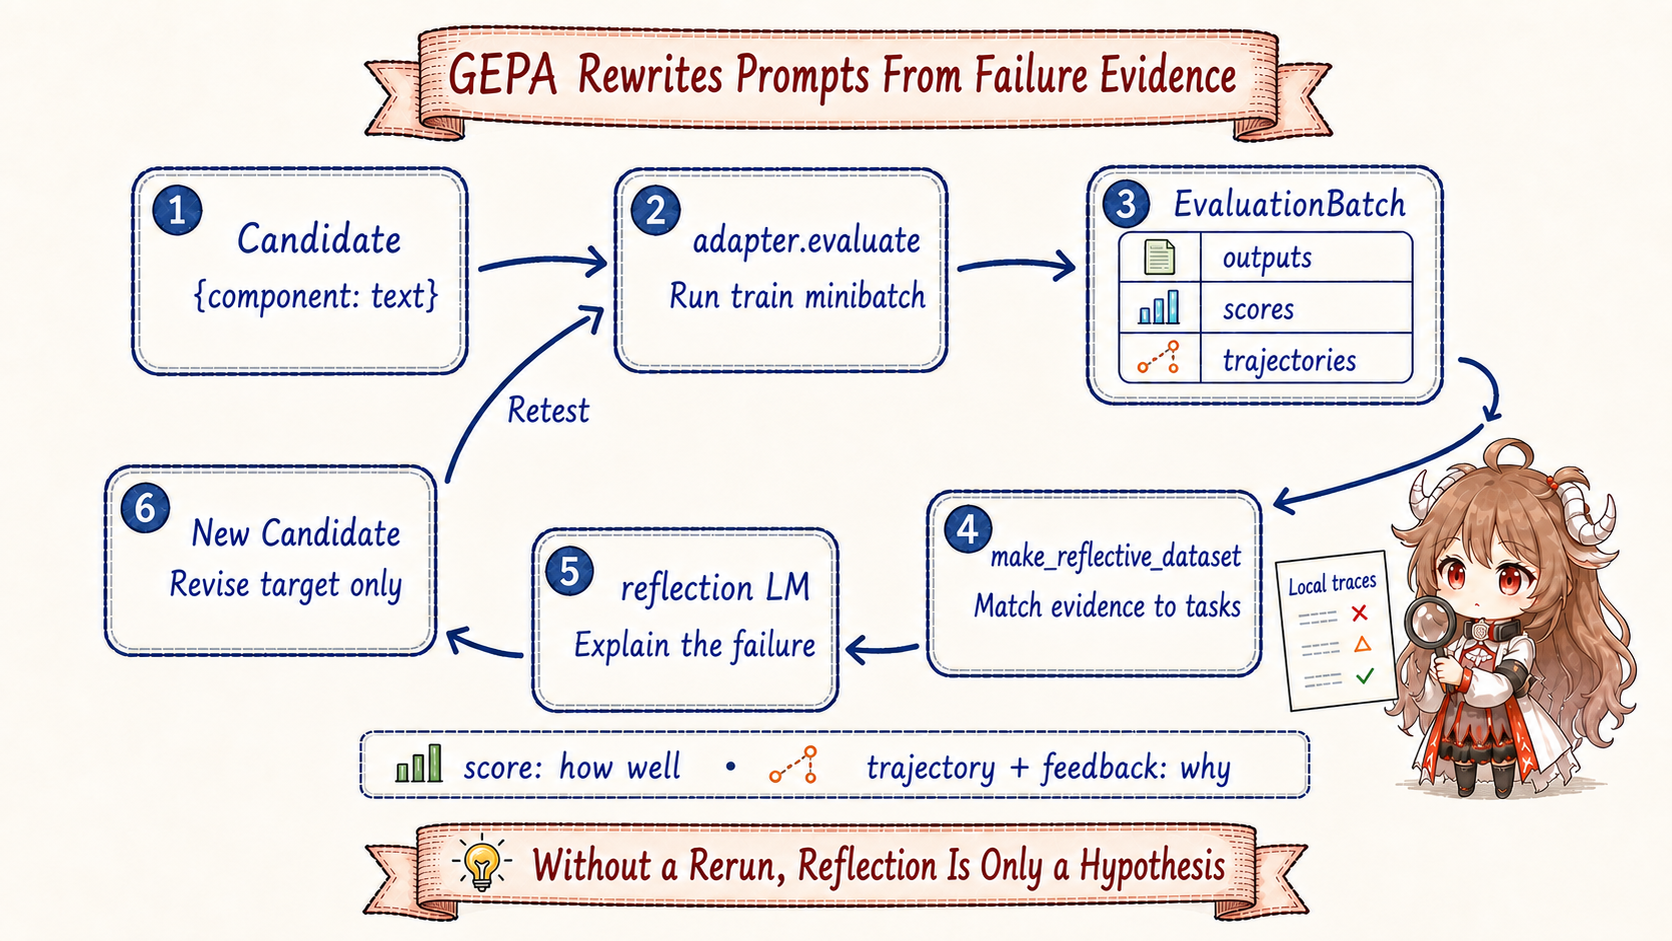
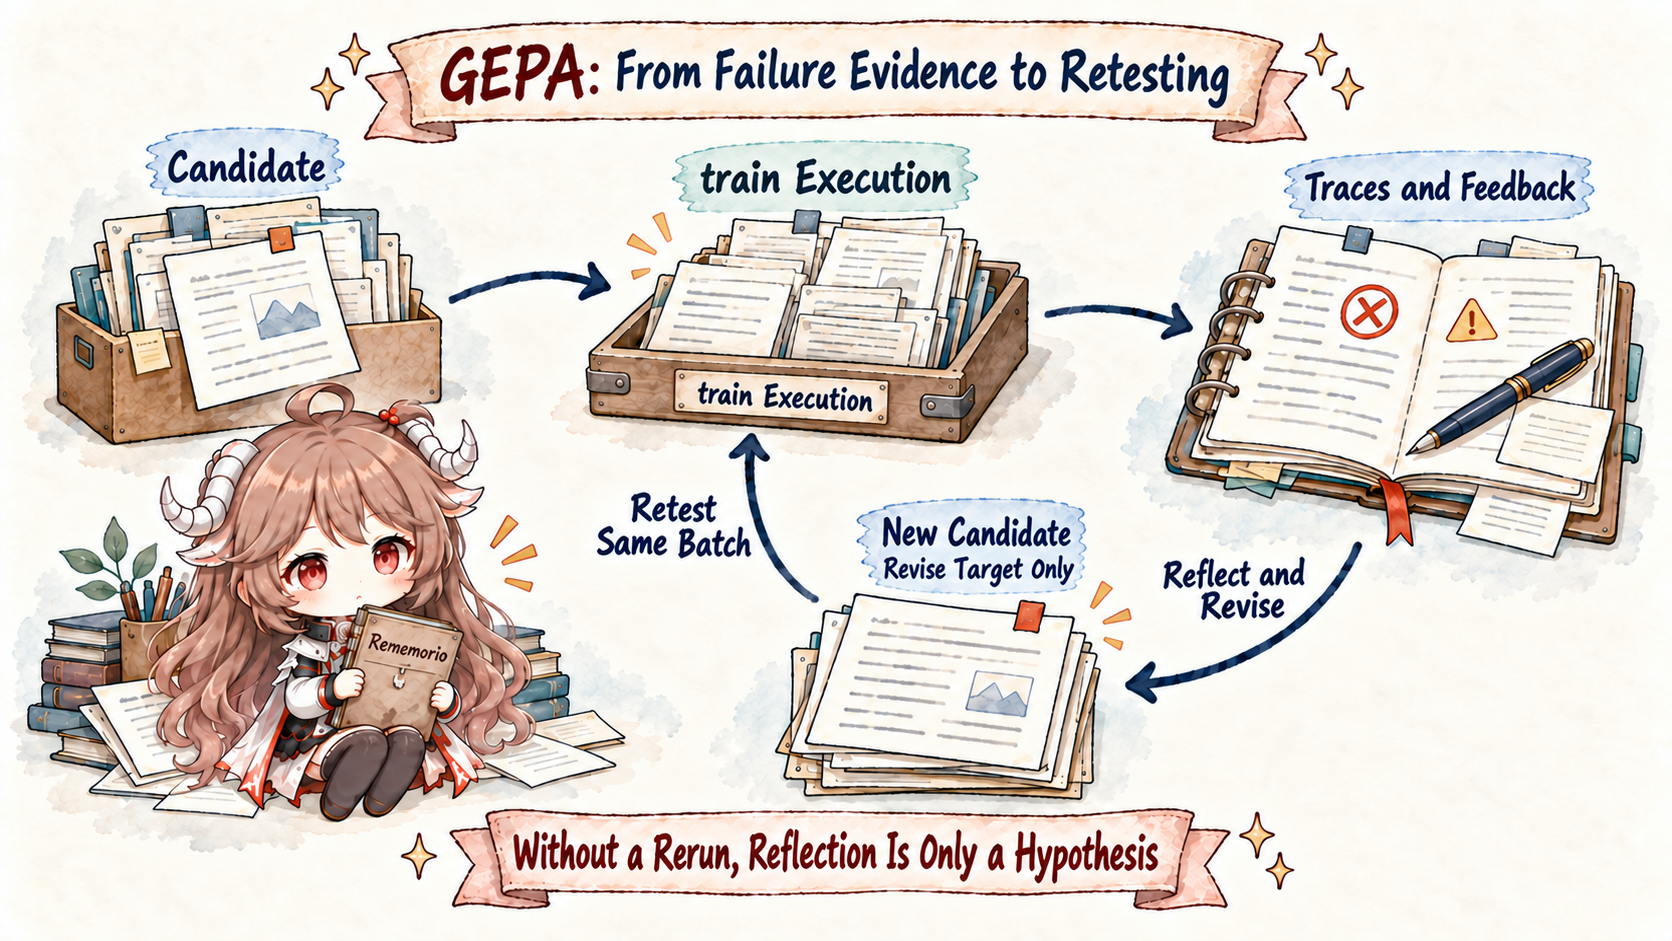
Redraw GEPA reflection loop in Memory visual style

diff --git a/hermes-agent/en/self-evolution/index.html b/hermes-agent/en/self-evolution/index.html
@@ -312,9 +312,9 @@ compile -> revised program</code></pre>
             <figure class="figure">
               <img
                 src="assets/gepa-reflection-loop.png"
-                alt="GEPA runs a candidate on a training minibatch, associates traces with tasks, reads failure feedback, revises the target component, and reruns the candidate"
+                alt="GEPA runs a candidate on a training batch, uses traces and feedback to revise the target component, and retests the new candidate on the same batch"
               />
-              <figcaption>A score says where performance is poor; traces and feedback help the reflector decide which instruction should change.</figcaption>
+              <figcaption>Scores locate weak tasks; traces and feedback help the reflector revise the target component. Old and new candidates are compared on the same training batch; generating a candidate does not mean it has passed or been adopted.</figcaption>
             </figure>
 
             <h3>3.1 Traces turn "wrong" into "wrong at this step"</h3>

diff --git a/hermes-agent/zh/self-evolution/index.html b/hermes-agent/zh/self-evolution/index.html
@@ -273,9 +273,9 @@ compile -> 返回新程序</code></pre>
             <figure class="figure">
               <img
                 src="assets/gepa-reflection-loop.png"
-                alt="GEPA 从候选提示词出发执行训练小批次，将轨迹关联到原任务，读取失败反馈后改写目标组件，并重新执行候选"
+                alt="GEPA 在训练批次执行候选，依据轨迹与反馈反思改写目标组件，再用同一批次复测新候选"
               />
-              <figcaption>分数告诉系统哪里不好，轨迹和文字反馈才让反思器判断应该改哪一段提示词。</figcaption>
+              <figcaption>分数定位表现差的任务，轨迹和文字反馈帮助反思器改写目标组件；新旧候选在同一训练批次比较，生成新候选本身不代表通过或采用。</figcaption>
             </figure>
 
             <h3>3.1 轨迹让“错了”变成“错在哪里”</h3>
